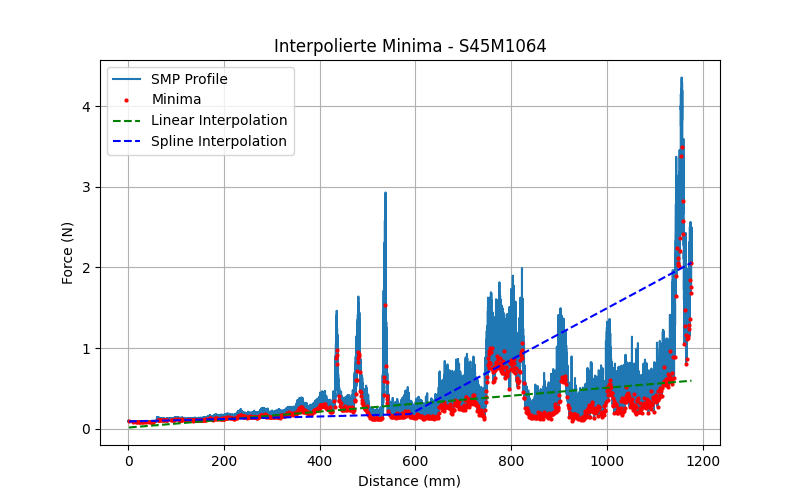
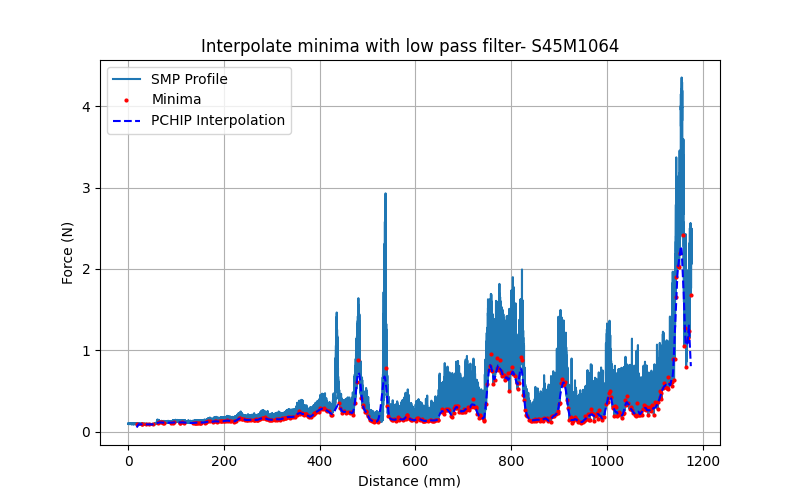
interpolation window size and low pass filter

diff --git a/plot_interpolate.py b/plot_interpolate.py
@@ -3,7 +3,7 @@ import numpy as np
 
 from pathlib import Path
 from scipy.signal import argrelextrema
-from scipy.interpolate import CubicSpline
+from scipy.interpolate import pchip_interpolate
 
 from readSMP import load_all_smp_profiles
 
@@ -18,34 +18,35 @@ def interpolate(smp_profiles, save=False, target_dir=Path("output/interpolation"
     for name, df in smp_profiles.items():
         distance = df["distance"].values
         force = df["force"].values
+        spatial_res = df.attrs["spatial_resolution"]
 
         # find local minima
-        minima_indices = argrelextrema(force, np.less, order=100)[0]  # order can be changed
+        minima_indices = argrelextrema(force, np.less, order=int(1/spatial_res))[0]  # sampling finding minimas: order=242, approx. 1mm
         minima_distances = distance[minima_indices]
         minima_forces = force[minima_indices]
 
-        # linear interpolation
-        fit = np.polyfit(minima_distances, minima_forces, 1) # 1 for linear fit, 2 for quadratic, etc.
-        fit_fn = np.poly1d(fit)
+        # Interploation
+        x_fit = np.linspace(minima_distances.min(), minima_distances.max(), int(minima_distances.max() - minima_distances.min())) #sampling 1mm
+        y_fit = pchip_interpolate(minima_distances, minima_forces, x_fit)
 
-        # spline Interpolation
-        cs = CubicSpline(minima_distances, minima_forces)
-        x_fit = np.linspace(minima_distances.min(), minima_distances.max(), 3) #change for how many segments 
-        y_fit = cs(x_fit)
+        # Low Pass Filter over Interpolation to get flatten curve
+        dx = np.mean(np.diff(x_fit))              # Samplingrate of finding local minimas
+        moving_window = 10.0                    # size in mm of shot noise moving window 1,5,10mm, not overlapping
+        moving_window_minimas = int(moving_window / dx)  # window size adapted to sampling of local minima
+        y_smooth = np.convolve(y_fit, np.ones(moving_window_minimas)/moving_window_minimas, mode='same')
+
 
         # Plot
         plt.figure(figsize=(8, 5))
         plt.plot(distance, force, label="SMP Profile")
         plt.plot(minima_distances, minima_forces, 'ro', label="Minima",  markersize=2)
 
-        #linear interpolation
-        plt.plot(minima_distances, fit_fn(minima_distances), 'g--', label="Linear Interpolation")
-        #spline interpolation
-        plt.plot(x_fit, y_fit, 'b--', label="Spline Interpolation")
+        # Interpolated minima
+        plt.plot(x_fit, y_smooth, 'b--', label="PCHIP Interpolation")
 
         plt.xlabel("Distance (mm)")
         plt.ylabel("Force (N)")
-        plt.title(f"Interpolierte Minima - {name}")
+        plt.title(f"Interpolate minima with low pass filter- {name}")
         plt.legend()
         plt.grid()
 
